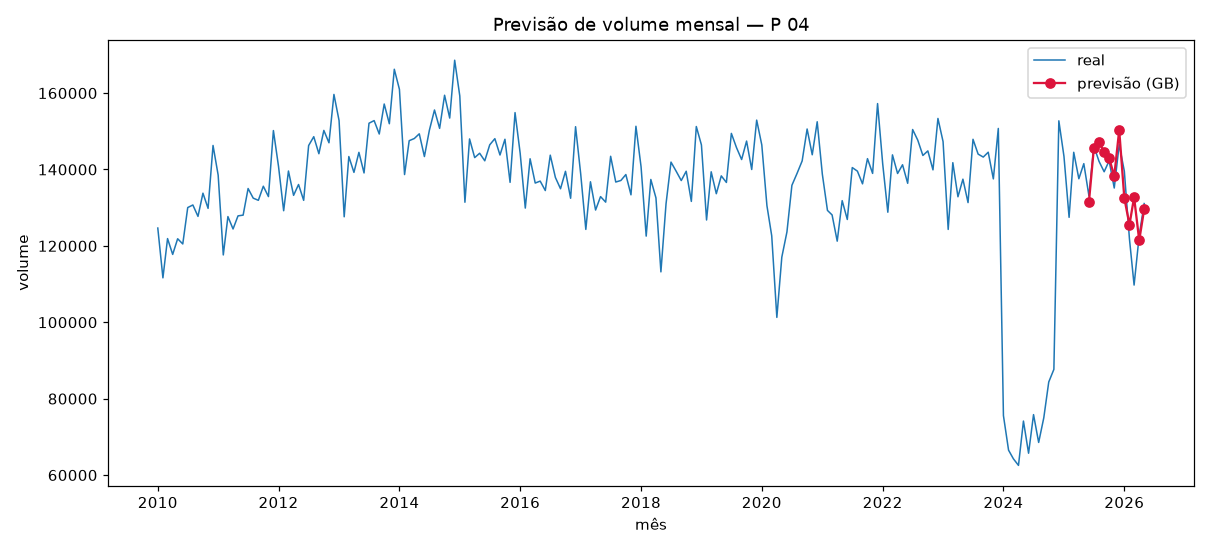
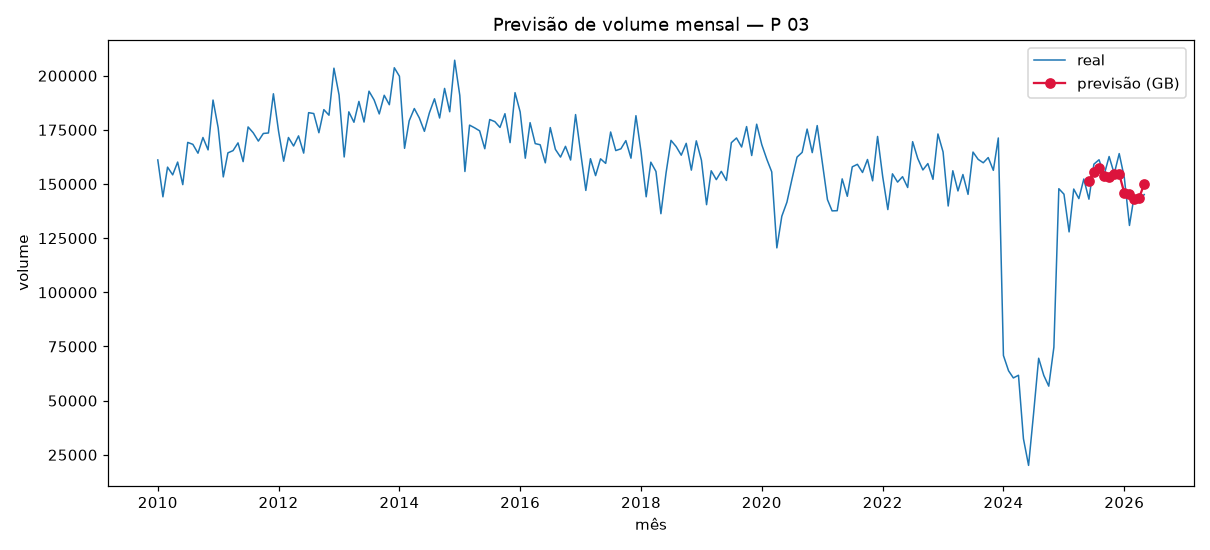
fix(fase3): previsão multi-step justa (12m à frente) + teste pareado
Corrige inconsistência de avaliação: naïve/GB eram avaliados 1-passo-à-frente
(alimentados com o valor real recente) enquanto o Holt-Winters previa 12 passos —
comparação injusta que inflava o naïve (13,7%) e mascarava o ganho dos modelos.

Agora TODOS preveem 12 meses à frente sem ver o teste (naïve=random walk,
GB recursivo, HW forecast(12)). Adiciona teste pareado melhor-vs-naïve por praça.

Resultado (backtest 63 praças): Holt-Winters MAPE 13,25% bate o naïve 16,26% de
forma significativa (pareado Δ=3,01pp, IC95 [1,76; 4,40], vence em 73% das praças).
Atualiza docs/14, README e adiciona teste que trava o multi-step honesto.

diff --git a/src/rodoia/dados/previsao.py b/src/rodoia/dados/previsao.py
@@ -64,23 +64,44 @@ def _mape(y_true, y_pred) -> float:
     return float(np.mean(np.abs((y_true - y_pred) / y_true)) * 100)
 
 
+_COLS = ["lag1", "lag2", "lag3", "lag12", "media3", "media12", "mes"]
+
+
+def _gb_recursivo(gb, hist: list[float], meses: list[int]) -> list[float]:
+    """Previsão MULTI-STEP recursiva: cada mês usa só o histórico de treino + as próprias
+    previsões anteriores (nunca o valor real do teste)."""
+    h, preds = list(hist), []
+    for mes in meses:
+        feat = [[h[-1], h[-2], h[-3], h[-12],
+                 float(np.mean(h[-3:])), float(np.mean(h[-12:])), mes]]
+        p = float(gb.predict(pd.DataFrame(feat, columns=_COLS))[0])
+        preds.append(p)
+        h.append(p)
+    return preds
+
+
 def _prever_praca(s: pd.Series) -> dict:
+    """Todos os modelos preveem 12 MESES À FRENTE a partir do fim do treino (sem ver o
+    teste) — comparação justa e realista (planejamento de demanda)."""
     from sklearn.ensemble import GradientBoostingRegressor
     from statsmodels.tsa.holtwinters import ExponentialSmoothing
 
-    df = _features(s)
-    treino, teste = df.iloc[:-N_TESTE], df.iloc[-N_TESTE:]
-    cols = [c for c in df.columns if c != "y"]
-    y = teste["y"].values
+    treino, y = s.iloc[:-N_TESTE], s.iloc[-N_TESTE:].values
+    meses = list(s.index[-N_TESTE:].month)
 
-    r = {"naive": _mape(y, s.shift(1).reindex(teste.index)),
-         "sazonal_naive": _mape(y, s.shift(12).reindex(teste.index))}
-    gb = GradientBoostingRegressor(random_state=settings.seed).fit(treino[cols], treino["y"])
-    r["gradient_boosting"] = _mape(y, gb.predict(teste[cols]))
+    r = {
+        # random walk multi-step: repete o último valor do treino
+        "naive": _mape(y, np.full(N_TESTE, treino.iloc[-1])),
+        # sazonal: mesmo mês do ano anterior (t-12, ainda no treino)
+        "sazonal_naive": _mape(y, s.shift(12).iloc[-N_TESTE:].values),
+    }
+    df = _features(treino)  # features só do treino → sem vazamento
+    gb = GradientBoostingRegressor(random_state=settings.seed).fit(df[_COLS], df["y"])
+    r["gradient_boosting"] = _mape(y, _gb_recursivo(gb, list(treino.values), meses))
     try:
         with warnings.catch_warnings():
             warnings.simplefilter("ignore")
-            hw = ExponentialSmoothing(s.iloc[:-N_TESTE], trend="add", seasonal="add",
+            hw = ExponentialSmoothing(treino, trend="add", seasonal="add",
                                       seasonal_periods=12).fit()
         r["holt_winters"] = _mape(y, hw.forecast(N_TESTE).values)
     except Exception:
@@ -88,11 +109,18 @@ def _prever_praca(s: pd.Series) -> dict:
     return r
 
 
+def _melhor(agg: dict) -> str:
+    return min(agg, key=lambda m: agg[m]["mape_medio"])
+
+
 def avaliar() -> dict:
     series = _series_completas()
     por_modelo: dict[str, list[float]] = {m: [] for m in MODELOS}
+    por_praca: list[dict] = []          # guarda o pareamento (mesma praça, todos os modelos)
     for _, s in series:
-        for m, v in _prever_praca(s).items():
+        d = _prever_praca(s)
+        por_praca.append(d)
+        for m, v in d.items():
             if v is not None and np.isfinite(v):
                 por_modelo[m].append(v)
 
@@ -100,20 +128,40 @@ def avaliar() -> dict:
                "mape_mediano": round(float(np.median(v)), 2),
                "ic95": bootstrap_ic(v), "n_pracas": len(v)}
            for m, v in por_modelo.items()}
+
+    # Comparação PAREADA melhor-modelo vs naïve (mesma praça) — teste correto de significância:
+    # diferença naïve−melhor por praça; se o IC95 do bootstrap não cruza 0, o ganho é significativo.
+    melhor = _melhor(agg)
+    deltas = [d["naive"] - d[melhor] for d in por_praca
+              if d.get("naive") is not None and d.get(melhor) is not None
+              and np.isfinite(d["naive"]) and np.isfinite(d[melhor])]
+    ic_delta = bootstrap_ic(deltas)
+    pareado = {
+        "modelo": melhor, "vs": "naive",
+        "delta_mape_medio": round(float(np.mean(deltas)), 2),  # pp de MAPE que o naïve perde
+        "ic95_delta": ic_delta, "n_pracas": len(deltas),
+        "vence_naive_em_pct_pracas": round(100 * np.mean([x > 0 for x in deltas]), 1),
+        "significativo": ic_delta[0] > 0,   # IC não cruza 0 → melhor bate naïve de forma significativa
+    }
+
     res = carimbar({
-        "tarefa": "previsão de volume mensal (backtest 12 meses em múltiplas praças)",
+        "tarefa": "previsão de volume mensal 12 meses à frente (multi-step, backtest em múltiplas praças)",
         "n_pracas": len(series), "n_teste": N_TESTE, "min_meses": MIN_MESES,
         "metrica": "MAPE (%) — média entre praças com IC95 por bootstrap",
-        "modelos": agg,
+        "modelos": agg, "comparacao_pareada": pareado,
     })
     _plotar(max(series, key=lambda x: len(x[1])))
     saida = REPO_ROOT / "reports" / "fase3_dados"
     saida.mkdir(parents=True, exist_ok=True)
     (saida / "previsao.json").write_text(json.dumps(res, ensure_ascii=False, indent=2))
-    print(f"backtest em {len(series)} praças (holdout 12m):")
-    for m in MODELOS:
+    print(f"backtest 12m à frente em {len(series)} praças:")
+    for m in sorted(MODELOS, key=lambda x: agg[x]["mape_medio"]):
         a = agg[m]
         print(f"  {m:18} MAPE médio={a['mape_medio']}% IC95={a['ic95']} (n={a['n_pracas']})")
+    p = pareado
+    print(f"pareado {p['modelo']} vs naïve: Δ={p['delta_mape_medio']}pp IC95={p['ic95_delta']} "
+          f"| vence em {p['vence_naive_em_pct_pracas']}% das praças "
+          f"| significativo={p['significativo']}")
     print(f"relatório: {saida / 'previsao.json'}")
     return res
 

diff --git a/tests/test_dados.py b/tests/test_dados.py
@@ -51,6 +51,21 @@ def test_mape():
     assert _mape([100, 200], [110, 180]) == 10.0
 
 
+def test_previsao_multistep_justa():
+    """Numa série com tendência+sazonalidade, prevendo 12 meses à frente (sem ver o teste),
+    o Holt-Winters deve BATER o naïve (random walk). Trava a avaliação multi-step honesta:
+    se algum modelo 'espiar' o teste (1-passo alimentado com o real), o teste denuncia."""
+    import numpy as np
+    from rodoia.dados.previsao import _prever_praca
+
+    idx = pd.date_range("2010-01-01", periods=120, freq="MS")
+    t = np.arange(120)
+    y = 1000 + 8 * t + 200 * np.sin(2 * np.pi * t / 12)  # tendência + sazonalidade anual
+    r = _prever_praca(pd.Series(y, index=idx))
+    assert all(v is not None and v >= 0 for v in r.values())
+    assert r["holt_winters"] < r["naive"]  # modelo sazonal vence o random walk a 12 meses
+
+
 def test_para_data_formatos_mistos():
     from rodoia.data.ingestao_volume import _para_data
     d = _para_data(pd.Series(["01/01/2010", "03/2024"]))

diff --git a/README.md b/README.md
@@ -83,7 +83,7 @@ O projeto é faseado; **cada fase é um marco publicável por si só**. Nenhuma 
 | **0** | Fundamentos de ML/DL + higiene de repo público | ✅ concluída ([docs 00–05](docs/)) |
 | **1** | RAG avaliado sobre a regulação da ANTT | ✅ concluída ([docs 06–09](docs/)) |
 | **2** | Fine-tuning e serving de modelo próprio | ✅ concluída — **QLoRA vence com métrica dura**: NER jurídico (LeNER-Br), F1 **0,13 → 0,77** (base→FT), encostando no SOTA BERTimbau 0,89 ([resultados NER](docs/13_fase2_ner.md)). Serving fp8 no vLLM (205 tok/s). Antes, um *estudo-baseline* honesto ([docs/11](docs/11_fase2_resultados.md)) mostrou que FT **não** injeta conhecimento factual — o arco (negativo rigoroso → pivot p/ tarefa objetiva) é o diferencial. |
-| **3** | Ingestão de dados estruturados abertos da ANTT | ✅ concluída ([docs/14](docs/14_fase3_dados_estruturados.md)) — Volume de Pedágio (2010–2026, 741k linhas) · **esquema estrela DuckDB** + SQL analítico (window) · camada de acesso testada (anti-injection) · **previsão de demanda** com backtest em 63 praças + IC (Holt-Winters/GB ≈ naïve — achado honesto: naïve é forte) |
+| **3** | Ingestão de dados estruturados abertos da ANTT | ✅ concluída ([docs/14](docs/14_fase3_dados_estruturados.md)) — Volume de Pedágio (2010–2026, 741k linhas) · **esquema estrela DuckDB** + SQL analítico (window) · camada de acesso testada (anti-injection) · **previsão de demanda** (backtest multi-step 12m em 63 praças + IC): **Holt-Winters bate o naïve com significância** (pareado Δ=3,01pp, IC95 [1,76; 4,40], vence em 73% das praças) |
 | **4** | Agente de orquestração (LangGraph) | ⚪ não iniciada |
 | **5** | MLOps, Cloud e operação | ⚪ não iniciada |
 